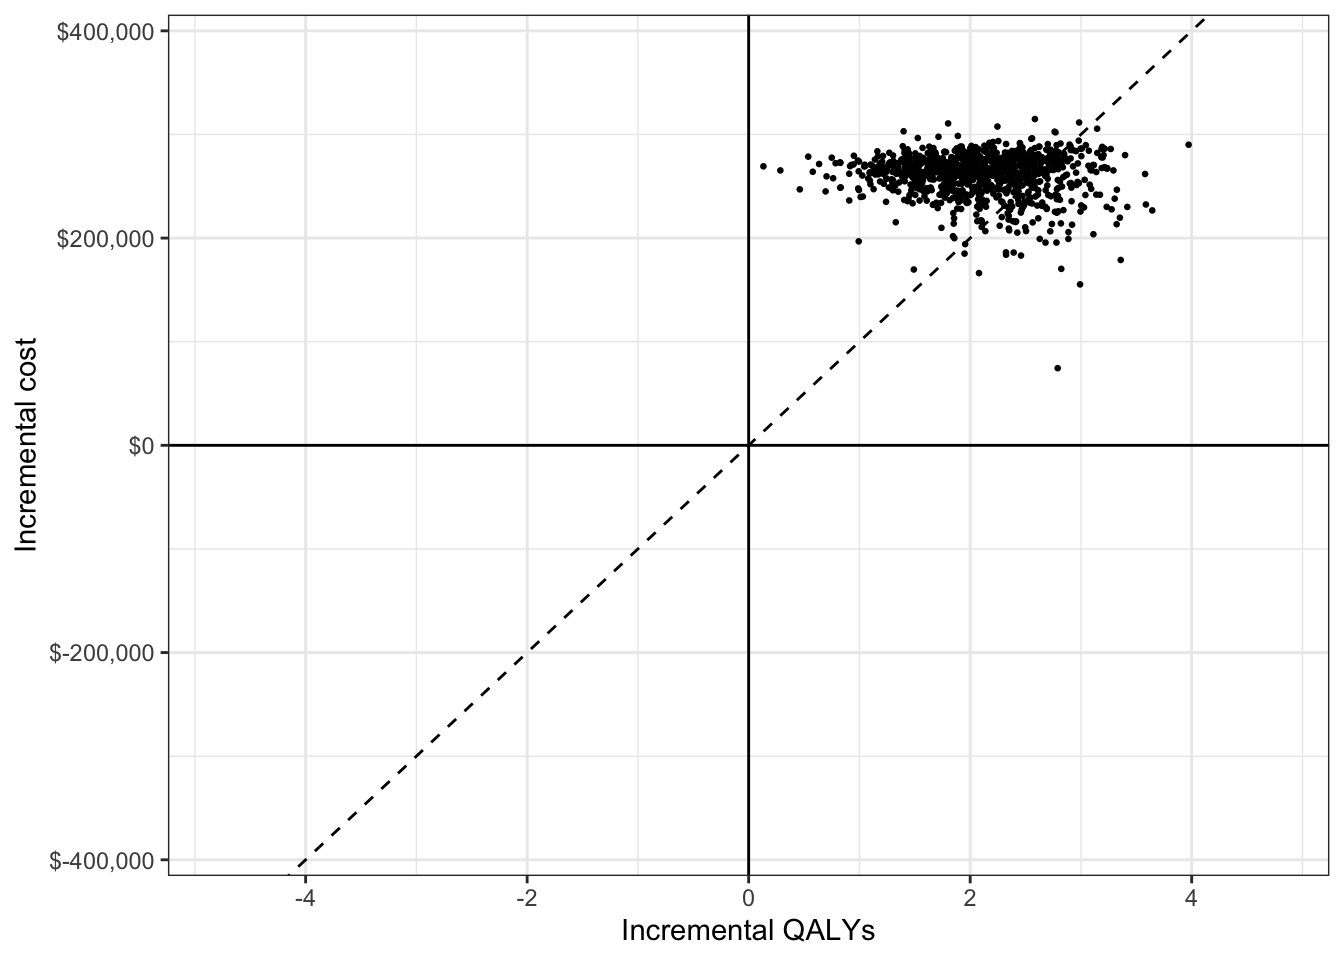
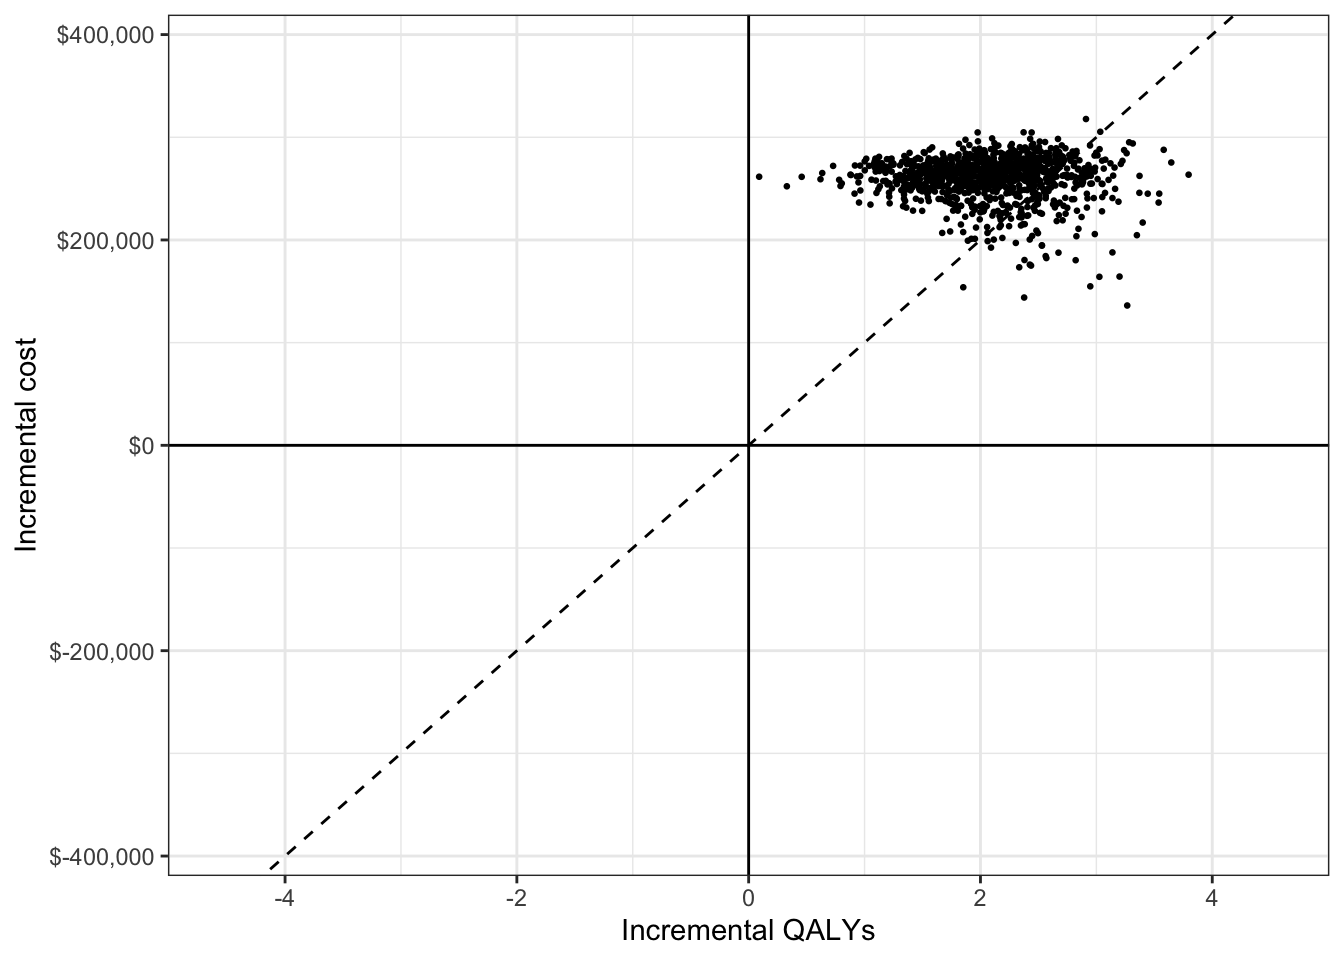
Updates transitions data for SOC in PSA

diff --git a/docs/articles/02-markov-cohort-psa.html b/docs/articles/02-markov-cohort-psa.html
@@ -92,12 +92,12 @@
 
       
 
-      </header><div class="row">
+      </header><script src="02-markov-cohort-psa_files/accessible-code-block-0.0.1/empty-anchor.js"></script><div class="row">
   <div class="col-md-9 contents">
     <div class="page-header toc-ignore">
       <h1 data-toc-skip>Incorporating Probabilistic Sensitivity Analysis</h1>
             
-            <h4 class="date">2020-10-08</h4>
+            <h4 class="date">2020-10-11</h4>
       
       <small class="dont-index">Source: <a href="https://github.com/hesim-dev/ispor-short-course/blob/master/vignettes/02-markov-cohort-psa.Rmd"><code>vignettes/02-markov-cohort-psa.Rmd</code></a></small>
       <div class="hidden name"><code>02-markov-cohort-psa.Rmd</code></div>
@@ -126,7 +126,7 @@
 <p>The probability distribution used for transition probabilities will depend on the underlying data. In this case, we assume that summary level data is available on transitions from the Healthy state (n = 900), Sick state (n = 900), and Sicker state (n = 800). The transitions from each state to the other 4 states can be modeled using a Dirichlet distribution (see Appendix).</p>
 <div class="sourceCode" id="cb2"><html><body><pre class="r"><span class="no">transitions_soc</span> <span class="kw">&lt;-</span> <span class="fu"><a href="https://rdrr.io/r/base/matrix.html">matrix</a></span>(
   <span class="fu"><a href="https://rdrr.io/r/base/c.html">c</a></span>(<span class="fl">848</span>, <span class="fl">150</span>, <span class="fl">0</span>,   <span class="fl">2</span>,
-    <span class="fl">450</span>, <span class="fl">355</span>, <span class="fl">95</span>,  <span class="fl">5</span>,
+    <span class="fl">500</span>, <span class="fl">389</span>, <span class="fl">105</span>,  <span class="fl">6</span>,
     <span class="fl">0</span>,   <span class="fl">0</span>,   <span class="fl">784</span>, <span class="fl">16</span>,
     <span class="fl">0</span>,   <span class="fl">0</span>,   <span class="fl">0</span>,   <span class="fl">23</span>),
   <span class="kw">nrow</span> <span class="kw">=</span> <span class="fl">4</span>, <span class="kw">byrow</span> <span class="kw">=</span> <span class="fl">TRUE</span>)
@@ -201,19 +201,19 @@
 <pre><code>## [1] "p_soc"     "rr_new"    "c_medical" "c_soc"     "c_new"     "u"</code></pre>
 <div class="sourceCode" id="cb6"><html><body><pre class="r"><span class="fu"><a href="https://rdrr.io/r/utils/head.html">head</a></span>(<span class="fu"><a href="https://Rdatatable.gitlab.io/data.table/reference/as.matrix.html">as.matrix</a></span>(<span class="no">params_rng</span>$<span class="no">p_soc</span>))</pre></body></html></div>
 <pre><code>##            h_h      h_s1 h_s2          h_d      s1_h     s1_s1      s1_s2
-## [1,] 0.8314387 0.1676855    0 0.0008758048 0.4970075 0.3983964 0.09460821
-## [2,] 0.8484276 0.1499030    0 0.0016693530 0.4873002 0.3903877 0.11943773
-## [3,] 0.8231241 0.1751592    0 0.0017166112 0.5140430 0.3751215 0.10446023
-## [4,] 0.8566021 0.1395214    0 0.0038764948 0.4948810 0.3946650 0.10659300
-## [5,] 0.8733856 0.1255655    0 0.0010488686 0.5080511 0.3865628 0.10439412
-## [6,] 0.8410828 0.1584694    0 0.0004478414 0.4778366 0.3896319 0.12805649
-##              s1_d s2_h s2_s1     s2_s2       s2_d d_h d_s1 d_s2 d_d
-## [1,] 0.0099878961    0     0 0.9834853 0.01651466   0    0    0   1
-## [2,] 0.0028743077    0     0 0.9846422 0.01535779   0    0    0   1
-## [3,] 0.0063752554    0     0 0.9784341 0.02156585   0    0    0   1
-## [4,] 0.0038610556    0     0 0.9568901 0.04310991   0    0    0   1
-## [5,] 0.0009920194    0     0 0.9713398 0.02866016   0    0    0   1
-## [6,] 0.0044750486    0     0 0.9759186 0.02408139   0    0    0   1</code></pre>
+## [1,] 0.8354071 0.1629978    0 0.0015951100 0.4978805 0.3858121 0.10649960
+## [2,] 0.8524554 0.1464055    0 0.0011391525 0.5288939 0.3701400 0.09637747
+## [3,] 0.8474449 0.1503811    0 0.0021740633 0.4912809 0.3951613 0.11001017
+## [4,] 0.8533398 0.1460087    0 0.0006514878 0.4942951 0.3888955 0.11054569
+## [5,] 0.8454329 0.1524669    0 0.0021001562 0.4879387 0.3988668 0.11133313
+## [6,] 0.8521276 0.1465980    0 0.0012743481 0.5035368 0.3745404 0.11494959
+##             s1_d s2_h s2_s1     s2_s2       s2_d d_h d_s1 d_s2 d_d
+## [1,] 0.009807854    0     0 0.9847052 0.01529479   0    0    0   1
+## [2,] 0.004588676    0     0 0.9707737 0.02922630   0    0    0   1
+## [3,] 0.003547592    0     0 0.9857835 0.01421652   0    0    0   1
+## [4,] 0.006263652    0     0 0.9706303 0.02936974   0    0    0   1
+## [5,] 0.001861347    0     0 0.9748486 0.02515142   0    0    0   1
+## [6,] 0.006973203    0     0 0.9845961 0.01540394   0    0    0   1</code></pre>
 </div>
 <div id="simulating-the-markov-model" class="section level2">
 <h2 class="hasAnchor">
@@ -325,20 +325,20 @@
 <p>Now that we’ve written the function, lets simulate the model with argument defaults (85 model cycles and 3% discount rates). Recall that each array is a matrix.</p>
 <div class="sourceCode" id="cb14"><html><body><pre class="r"><span class="no">sim_out</span> <span class="kw">&lt;-</span> <span class="fu">sim_model</span>(<span class="no">params_rng</span>, <span class="kw">data</span> <span class="kw">=</span> <span class="no">data</span>)
 <span class="fu"><a href="https://rdrr.io/r/utils/head.html">head</a></span>(<span class="no">sim_out</span>[, , <span class="fl">1</span>])</pre></body></html></div>
-<pre><code>##              H        S1          S2            D    dqalys dcosts_med
-## [1,] 1.0000000 0.0000000 0.000000000 0.0000000000 1.0000000   391.6504
-## [2,] 0.8928653 0.1061637 0.000000000 0.0009710098 0.9442218   383.5689
-## [3,] 0.8494038 0.1392268 0.009226654 0.0021427131 0.9032621  1092.4616
-## [4,] 0.8268541 0.1484520 0.021134635 0.0035592950 0.8678124  1961.8321
-## [5,] 0.8112558 0.1499194 0.033596348 0.0052284873 0.8348972  2819.9926
-## [6,] 0.7980500 0.1488777 0.045926034 0.0071463062 0.8035486  3616.9170
+<pre><code>##              H        S1          S2           D    dqalys dcosts_med
+## [1,] 1.0000000 0.0000000 0.000000000 0.000000000 1.0000000   3034.401
+## [2,] 0.8811154 0.1177325 0.000000000 0.001152140 0.9449958   3483.180
+## [3,] 0.8349810 0.1529612 0.009056469 0.003001344 0.9040508   3550.256
+## [4,] 0.8118710 0.1622592 0.020722824 0.005147011 0.8683033   3502.118
+## [5,] 0.7961377 0.1634260 0.032975537 0.007460803 0.8350131   3420.179
+## [6,] 0.7828557 0.1620615 0.045182644 0.009900094 0.8033110   3329.309
 ##      dcosts_treat
 ## [1,]     12000.00
-## [2,]     11639.17
-## [3,]     11286.91
-## [4,]     10942.61
-## [5,]     10606.10
-## [6,]     10277.33</code></pre>
+## [2,]     11637.06
+## [3,]     11277.20
+## [4,]     10925.18
+## [5,]     10582.30
+## [6,]     10248.83</code></pre>
 <p>Although arrays are computationally efficient objects for storing data, they aren’t often the most useful for summarizing data. We will write to short functions to convert a 3D array to a <code>data.table</code> (with ID columns for the parameter sample and treatment strategy) so that we can summarize outcomes for each parameter sample and treatment strategy very quickly. (Note that other packages such as <code>dplyr</code> could also be used but we prefer <code>data.table</code> for simulations because of its speed).</p>
 <div class="sourceCode" id="cb16"><html><body><pre class="r"><span class="co"># rbind an array of matrices into a single matrix</span>
 <span class="no">rbind_array</span> <span class="kw">&lt;-</span> <span class="kw">function</span>(<span class="no">x</span>){
@@ -360,20 +360,20 @@
 
 <span class="no">sim_out</span> <span class="kw">&lt;-</span> <span class="fu">array_to_dt</span>(<span class="no">sim_out</span>)
 <span class="fu"><a href="https://rdrr.io/r/utils/head.html">head</a></span>(<span class="no">sim_out</span>)</pre></body></html></div>
-<pre><code>##    cycle strategy sample         H        S1          S2            D    dqalys
-## 1:     0      New      1 1.0000000 0.0000000 0.000000000 0.0000000000 1.0000000
-## 2:     1      New      1 0.8928653 0.1061637 0.000000000 0.0009710098 0.9442218
-## 3:     2      New      1 0.8494038 0.1392268 0.009226654 0.0021427131 0.9032621
-## 4:     3      New      1 0.8268541 0.1484520 0.021134635 0.0035592950 0.8678124
-## 5:     4      New      1 0.8112558 0.1499194 0.033596348 0.0052284873 0.8348972
-## 6:     5      New      1 0.7980500 0.1488777 0.045926034 0.0071463062 0.8035486
+<pre><code>##    cycle strategy sample         H        S1          S2           D    dqalys
+## 1:     0      New      1 1.0000000 0.0000000 0.000000000 0.000000000 1.0000000
+## 2:     1      New      1 0.8811154 0.1177325 0.000000000 0.001152140 0.9449958
+## 3:     2      New      1 0.8349810 0.1529612 0.009056469 0.003001344 0.9040508
+## 4:     3      New      1 0.8118710 0.1622592 0.020722824 0.005147011 0.8683033
+## 5:     4      New      1 0.7961377 0.1634260 0.032975537 0.007460803 0.8350131
+## 6:     5      New      1 0.7828557 0.1620615 0.045182644 0.009900094 0.8033110
 ##    dcosts_med dcosts_treat
-## 1:   391.6504     12000.00
-## 2:   383.5689     11639.17
-## 3:  1092.4616     11286.91
-## 4:  1961.8321     10942.61
-## 5:  2819.9926     10606.10
-## 6:  3616.9170     10277.33</code></pre>
+## 1:   3034.401     12000.00
+## 2:   3483.180     11637.06
+## 3:   3550.256     11277.20
+## 4:   3502.118     10925.18
+## 5:   3420.179     10582.30
+## 6:   3329.309     10248.83</code></pre>
 </div>
 </div>
 </div>
@@ -387,39 +387,39 @@
                   <span class="kw">by</span> <span class="kw">=</span> <span class="fu"><a href="https://rdrr.io/r/base/c.html">c</a></span>(<span class="st">"sample"</span>, <span class="st">"strategy"</span>)]
 <span class="no">ce_out</span></pre></body></html></div>
 <pre><code>##       sample strategy   dqalys   dcosts
-##    1:      1      New 23.54358 780545.7
-##    2:      1      SOC 21.58874 586406.6
-##    3:      2      New 24.58334 361561.7
-##    4:      2      SOC 22.81190  78187.4
-##    5:      3      New 23.29041 388566.0
+##    1:      1      New 23.76522 446737.9
+##    2:      1      SOC 20.75515 164378.8
+##    3:      2      New 23.36452 379221.4
+##    4:      2      SOC 21.44274 112713.1
+##    5:      3      New 23.45367 479096.7
 ##   ---                                  
-## 1996:    998      SOC 22.54556 318895.4
-## 1997:    999      New 22.84384 394028.4
-## 1998:    999      SOC 20.50050 124683.4
-## 1999:   1000      New 23.35950 398879.4
-## 2000:   1000      SOC 21.54831 143245.2</code></pre>
+## 1996:    998      SOC 21.04841 165033.7
+## 1997:    999      New 23.31300 438144.9
+## 1998:    999      SOC 21.72958 147964.9
+## 1999:   1000      New 23.08725 383215.4
+## 2000:   1000      SOC 21.14566 114027.8</code></pre>
 <p>In the two treatment strategy case its simpler to “widen” the data so that we can easily compute incremental QALYs and incremental costs.</p>
 <div class="sourceCode" id="cb20"><html><body><pre class="r"><span class="no">ce_out_wider</span> <span class="kw">&lt;-</span> <span class="fu"><a href="https://Rdatatable.gitlab.io/data.table/reference/dcast.data.table.html">dcast</a></span>(<span class="no">ce_out</span>, <span class="no">sample</span> ~ <span class="no">strategy</span>,
                       <span class="kw">value.var</span> <span class="kw">=</span> <span class="fu"><a href="https://rdrr.io/r/base/c.html">c</a></span>(<span class="st">"dqalys"</span>, <span class="st">"dcosts"</span>))
 <span class="no">ce_out_wider</span></pre></body></html></div>
 <pre><code>##       sample dqalys_New dqalys_SOC dcosts_New dcosts_SOC
-##    1:      1   23.54358   21.58874   780545.7   586406.6
-##    2:      2   24.58334   22.81190   361561.7    78187.4
-##    3:      3   23.29041   21.65966   388566.0   100313.2
-##    4:      4   22.12511   20.33337   374781.9   118718.6
-##    5:      5   23.93308   22.08824   747840.4   546015.0
+##    1:      1   23.76522   20.75515   446737.9  164378.76
+##    2:      2   23.36452   21.44274   379221.4  112713.14
+##    3:      3   23.45367   21.15014   479096.7  206900.16
+##    4:      4   23.22162   21.21390   371816.7  105464.51
+##    5:      5   22.30074   20.67493   361265.5   93663.15
 ##   ---                                                   
-##  996:    996   21.85343   20.27057   385130.7   122243.1
-##  997:    997   22.75428   21.27465   469283.0   210731.6
-##  998:    998   25.22319   22.54556   549128.4   318895.4
-##  999:    999   22.84384   20.50050   394028.4   124683.4
-## 1000:   1000   23.35950   21.54831   398879.4   143245.2</code></pre>
+##  996:    996   23.51433   20.90575   365356.6   90349.23
+##  997:    997   22.56368   20.16734   433310.5  172249.36
+##  998:    998   22.92116   21.04841   430276.9  165033.73
+##  999:    999   23.31300   21.72958   438144.9  147964.87
+## 1000:   1000   23.08725   21.14566   383215.4  114027.77</code></pre>
 <p>The ICER is computed by taking means across all parameter samples.</p>
 <div class="sourceCode" id="cb22"><html><body><pre class="r"><span class="no">ce_out_wider</span>[, <span class="no">idcosts</span> <span class="kw">:=</span> <span class="no">dcosts_New</span> - <span class="no">dcosts_SOC</span>]
 <span class="no">ce_out_wider</span>[, <span class="no">idqalys</span> <span class="kw">:=</span> <span class="no">dqalys_New</span> - <span class="no">dqalys_SOC</span>]
 <span class="no">ce_out_wider</span>[, <span class="fu">.</span>(<span class="kw">icer</span> <span class="kw">=</span> <span class="fu"><a href="https://rdrr.io/r/base/mean.html">mean</a></span>(<span class="no">idcosts</span>)/<span class="fu"><a href="https://rdrr.io/r/base/mean.html">mean</a></span>(<span class="no">idqalys</span>))]</pre></body></html></div>
 <pre><code>##        icer
-## 1: 125537.9</code></pre>
+## 1: 124582.4</code></pre>
 <p>We can also use a cost-effectiveness plane to visually represent uncertainty in incremental QALYs and incremental costs. The dotted line represents willingness to pay for a QALY (in this example, $100,000) and points below the line are cost-effective while points above the line are not.</p>
 <p><img src="02-markov-cohort-psa_files/figure-html/ceplane-1.png" width="672"></p>
 <p>A more formal and thorough treatment of CEA and decision uncertainty is given in the <a href="06-cea.html">CEA tutorial</a>.</p>

diff --git a/docs/articles/03-markov-cohort-hesim.html b/docs/articles/03-markov-cohort-hesim.html
@@ -92,12 +92,12 @@
 
       
 
-      </header><div class="row">
+      </header><script src="03-markov-cohort-hesim_files/accessible-code-block-0.0.1/empty-anchor.js"></script><div class="row">
   <div class="col-md-9 contents">
     <div class="page-header toc-ignore">
       <h1 data-toc-skip>Markov Cohort Model wth hesim</h1>
             
-            <h4 class="date">2020-10-08</h4>
+            <h4 class="date">2020-10-11</h4>
       
       <small class="dont-index">Source: <a href="https://github.com/hesim-dev/ispor-short-course/blob/master/vignettes/03-markov-cohort-hesim.Rmd"><code>vignettes/03-markov-cohort-hesim.Rmd</code></a></small>
       <div class="hidden name"><code>03-markov-cohort-hesim.Rmd</code></div>
@@ -255,11 +255,11 @@
 <span class="fu"><a href="https://rdrr.io/r/utils/head.html">head</a></span>(<span class="no">econmod</span>$<span class="no">stateprobs_</span>)</pre></body></html></div>
 <pre><code>##    sample strategy_id patient_id grp_id state_id t      prob
 ## 1:      1           1          1      1        1 0 1.0000000
-## 2:      1           1          1      1        1 1 0.8379625
-## 3:      1           1          1      1        1 2 0.7805695
-## 4:      1           1          1      1        1 3 0.7500645
-## 5:      1           1          1      1        1 4 0.7267998
-## 6:      1           1          1      1        1 5 0.7058012</code></pre>
+## 2:      1           1          1      1        1 1 0.8425401
+## 3:      1           1          1      1        1 2 0.7917767
+## 4:      1           1          1      1        1 3 0.7671303
+## 5:      1           1          1      1        1 4 0.7490715
+## 6:      1           1          1      1        1 5 0.7328627</code></pre>
 </div>
 <div id="costs-and-qalys" class="section level3">
 <h3 class="hasAnchor">
@@ -268,21 +268,21 @@
 <div class="sourceCode" id="cb13"><html><body><pre class="r"><span class="no">econmod</span>$<span class="fu"><a href="https://hesim-dev.github.io/hesim/reference/sim_ev.html">sim_qalys</a></span>(<span class="kw">dr</span> <span class="kw">=</span> <span class="fl">0.03</span>, <span class="kw">lys</span> <span class="kw">=</span> <span class="fl">TRUE</span>, <span class="kw">integrate_method</span> <span class="kw">=</span> <span class="st">"riemann_right"</span>)
 <span class="fu"><a href="https://rdrr.io/r/utils/head.html">head</a></span>(<span class="no">econmod</span>$<span class="no">qalys_</span>)</pre></body></html></div>
 <pre><code>##    sample strategy_id patient_id grp_id state_id   dr     qalys       lys
-## 1:      1           1          1      1        1 0.03 13.465551 13.465551
-## 2:      1           1          1      1        2 0.03  2.643724  3.561691
-## 3:      1           1          1      1        3 0.03  3.910159  7.752447
-## 4:      1           2          1      1        1 0.03 15.612583 15.612583
-## 5:      1           2          1      1        2 0.03  2.632139  3.546083
-## 6:      1           2          1      1        3 0.03  3.429930  6.800324</code></pre>
+## 1:      1           1          1      1        1 0.03 15.356942 15.356942
+## 2:      1           1          1      1        2 0.03  3.148628  3.914536
+## 3:      1           1          1      1        3 0.03  3.031853  6.166145
+## 4:      1           2          1      1        1 0.03 18.757795 18.757795
+## 5:      1           2          1      1        2 0.03  2.979188  3.703880
+## 6:      1           2          1      1        3 0.03  2.353430  4.786377</code></pre>
 <div class="sourceCode" id="cb15"><html><body><pre class="r"><span class="no">econmod</span>$<span class="fu"><a href="https://hesim-dev.github.io/hesim/reference/sim_ev.html">sim_costs</a></span>(<span class="kw">dr</span> <span class="kw">=</span> <span class="fl">0.03</span>, <span class="kw">integrate_method</span> <span class="kw">=</span> <span class="st">"riemann_right"</span>)
 <span class="fu"><a href="https://rdrr.io/r/utils/head.html">head</a></span>(<span class="no">econmod</span>$<span class="no">costs_</span>)</pre></body></html></div>
 <pre><code>##    sample strategy_id patient_id grp_id state_id   dr  category      costs
-## 1:      1           1          1      1        1 0.03 treatment  26931.102
-## 2:      1           1          1      1        2 0.03 treatment   7123.381
-## 3:      1           1          1      1        3 0.03 treatment  15504.894
-## 4:      1           2          1      1        1 0.03 treatment 187350.995
-## 5:      1           2          1      1        2 0.03 treatment  42553.002
-## 6:      1           2          1      1        3 0.03 treatment  81603.891</code></pre>
+## 1:      1           1          1      1        1 0.03 treatment  30713.883
+## 2:      1           1          1      1        2 0.03 treatment   7829.071
+## 3:      1           1          1      1        3 0.03 treatment  12332.290
+## 4:      1           2          1      1        1 0.03 treatment 225093.544
+## 5:      1           2          1      1        2 0.03 treatment  44446.555
+## 6:      1           2          1      1        3 0.03 treatment  57436.522</code></pre>
 </div>
 </div>
 </div>
@@ -297,10 +297,10 @@
 <p>Although <code><a href="https://hesim-dev.github.io/hesim/reference/cea.html">cea_pw()</a></code> allows users to summarize output from a PSA we will just create an ICER table using means for now. A complete analysis is provided in the <a href="06-cea.html">CEA tutorial</a>.</p>
 <div class="sourceCode" id="cb18"><html><body><pre class="r"><span class="fu"><a href="https://hesim-dev.github.io/hesim/reference/icer_tbl.html">icer_tbl</a></span>(<span class="no">cea_pw_out</span>, <span class="kw">colnames</span> <span class="kw">=</span> <span class="no">strategies</span>$<span class="no">strategy_name</span>)</pre></body></html></div>
 <pre><code>##                   SOC New                           
-## Incremental QALYs "-" "2.05 (1.06, 3.06)"           
-## Incremental costs "-" "257,841 (204,466, 286,732)"  
-## Incremental NMB   "-" "-155,463 (-210,982, -78,586)"
-## ICER              "-" "125,927"                     
+## Incremental QALYs "-" "2.06 (1.02, 3.08)"           
+## Incremental costs "-" "256,475 (203,241, 289,648)"  
+## Incremental NMB   "-" "-153,460 (-209,981, -76,656)"
+## ICER              "-" "124,484"                     
 ## Conclusion        "-" "Not cost-effective"</code></pre>
 </div>
   </div>
